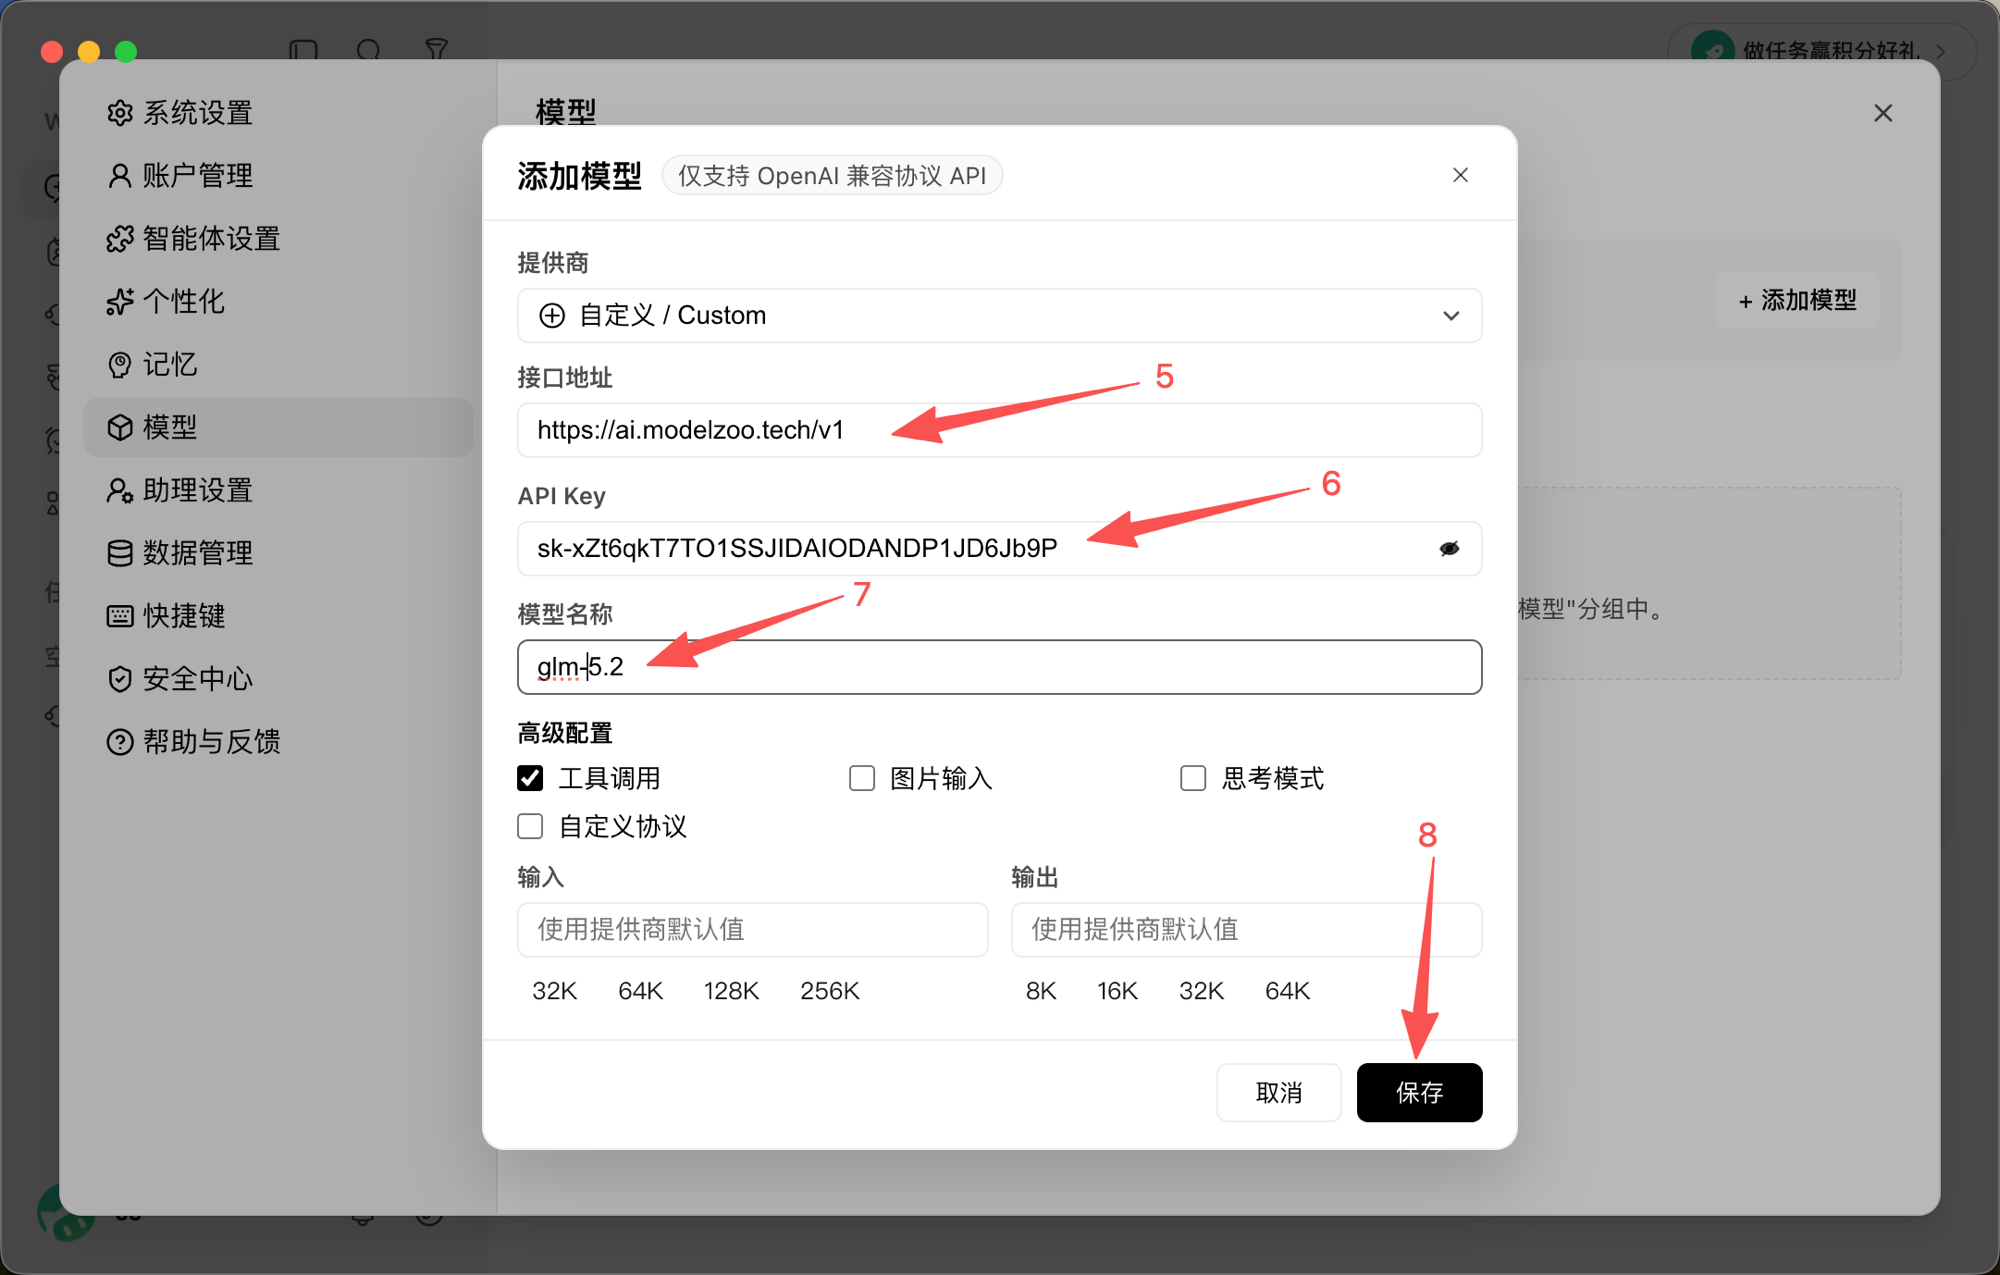
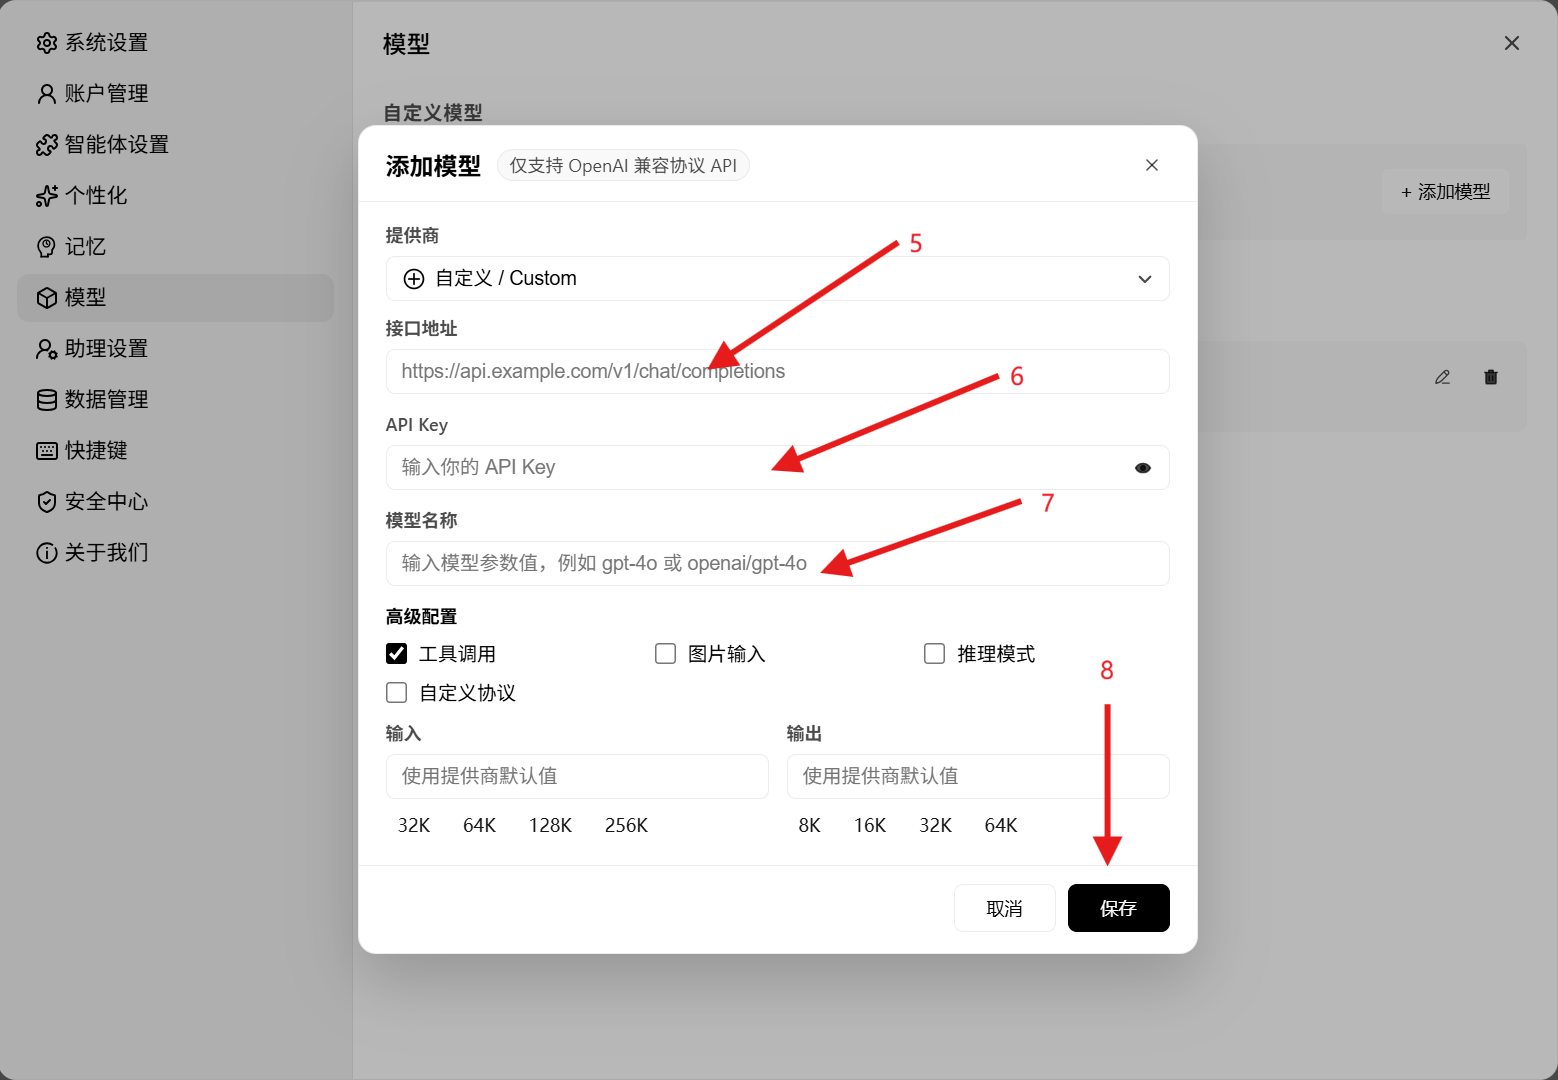
fix:修改教程

diff --git a/app/redeem_code.py b/app/redeem_code.py
@@ -53,6 +53,7 @@ import hashlib
 import hmac
 import logging
 import re
+import asyncio
 
 from . import config
 from . import newapi_client as na
@@ -139,7 +140,7 @@ async def login_or_create(code: str, client_ip: str | None = None) -> dict:
         return {**info, "is_new": False, "redeemed_quota": 0}
     except NewApiError as e:
         if e.status_code == 429:
-            raise                       # 限流原样抛出，让上层给出等待时长
+            raise  # 限流原样抛出，让上层给出等待时长
         # 账号不存在 → 走首次流程。这里不细分错误类型：
         # new-api 对"用户不存在"和"密码错误"返回同一句话，而密码是我们自己派生的，
         # 不可能错，所以走到这里只可能是账号不存在。
@@ -170,6 +171,26 @@ async def login_or_create(code: str, client_ip: str | None = None) -> dict:
     except Exception as exc:
         await _rollback(uid, raw, exc)
         raise NewApiError("兑换码核销失败，可能已被使用，请稍后重试", 400)
+    # ④ 补默认 Key。上游只有 /api/user/register 会派发初始令牌（GENERATE_DEFAULT_TOKEN，
+    #    上游默认关闭、本站已开），管理员建号接口 POST /api/user/ 不建任何令牌。
+    #    必须用**用户自己的 PAT**：/api/token/ 的归属取自 PAT，New-Api-User 头不改变它（见 newapi_client.py:521）。
+    #    失败不回滚——额度已到账，为一把可手动补建的 Key 撤销充值代价过大。
+    for attempt in range(3):
+        try:
+            await na.create_token(info["pat"], uid, "兑换码默认key")
+            break
+        except NewApiError as e:
+            if e.status_code == 429:
+                # /api/token/ 走 GlobalWebRateLimit，窗口按分钟计，短退避重试没有意义
+                logger.warning("默认 Key 创建被限流 uid=%s，用户需自行创建", uid)
+                break
+            if attempt == 2:
+                logger.warning("默认 Key 创建失败 uid=%s err=%s，用户需自行创建", uid, e.message)
+                break
+            await asyncio.sleep(0.5 * (attempt + 1))
+        except Exception:
+            logger.exception("默认 Key 创建异常 uid=%s，用户需自行创建", uid)
+            break
 
     logger.info("兑换码首次登录成功 code=%s uid=%s quota=%s", mask(raw), uid, quota)
     return {**info, "is_new": True, "redeemed_quota": int(quota or 0)}
@@ -233,7 +254,7 @@ def _mock_login(raw: str, username: str, password: str) -> dict:
     try:
         quota = store.use_redemption(raw, u["uid"])
     except ValueError:
-        store.delete_user(u["uid"])          # 与真实模式一致的回滚
+        store.delete_user(u["uid"])  # 与真实模式一致的回滚
         raise NewApiError("兑换码核销失败，可能已被使用，请稍后重试", 400)
     return {"uid": u["uid"], "username": username, "pat": u["pat"],
             "user": u, "is_new": True, "redeemed_quota": quota}
